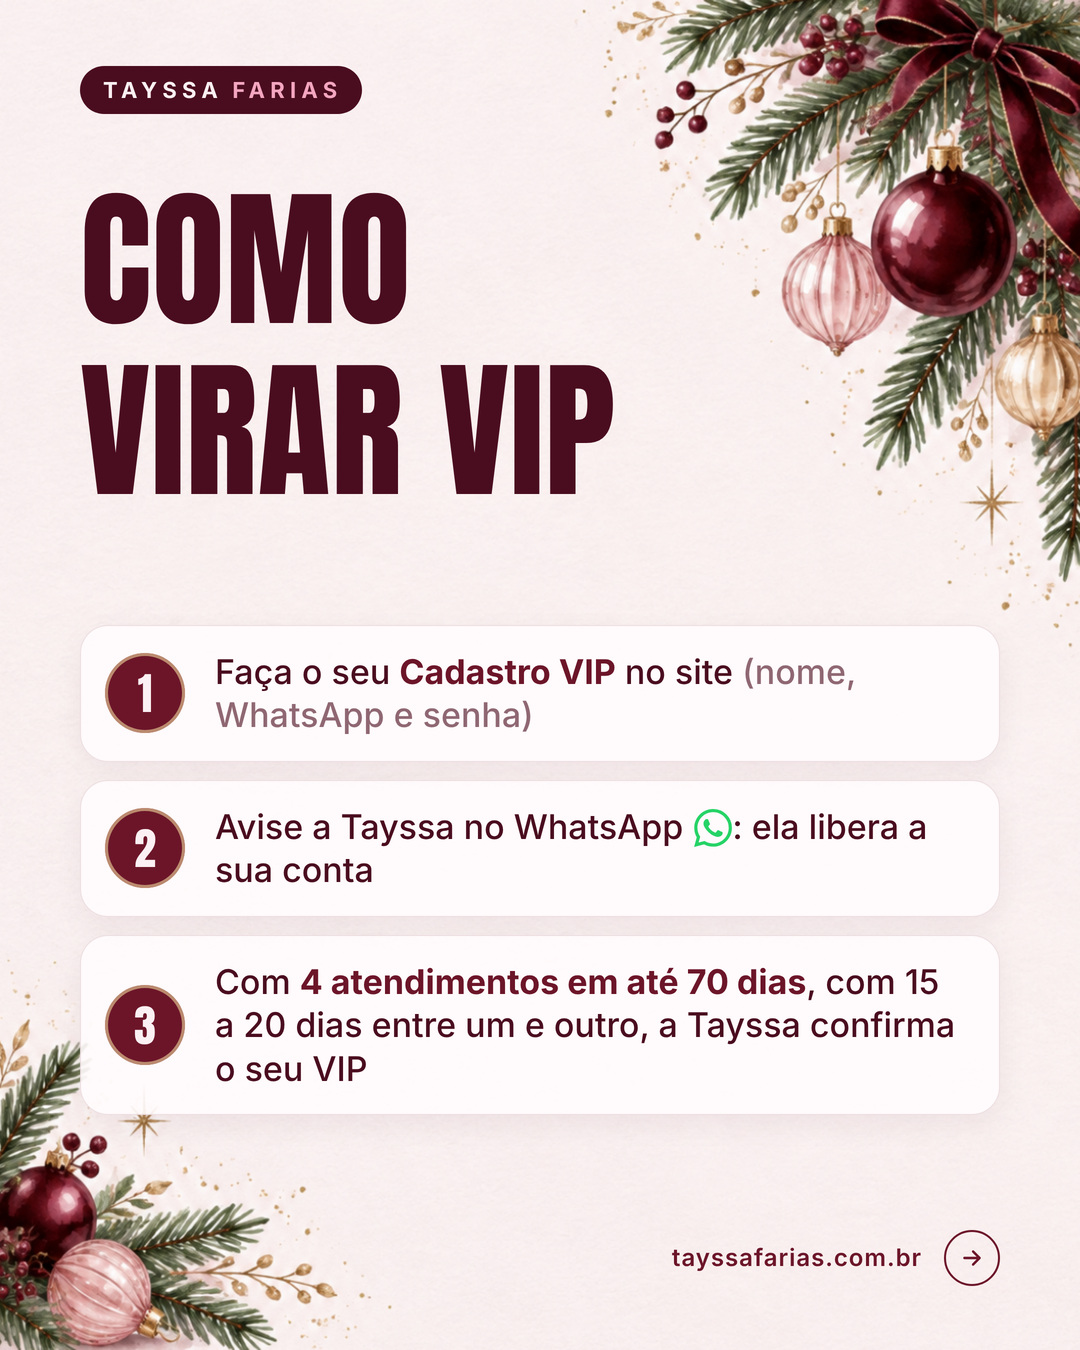
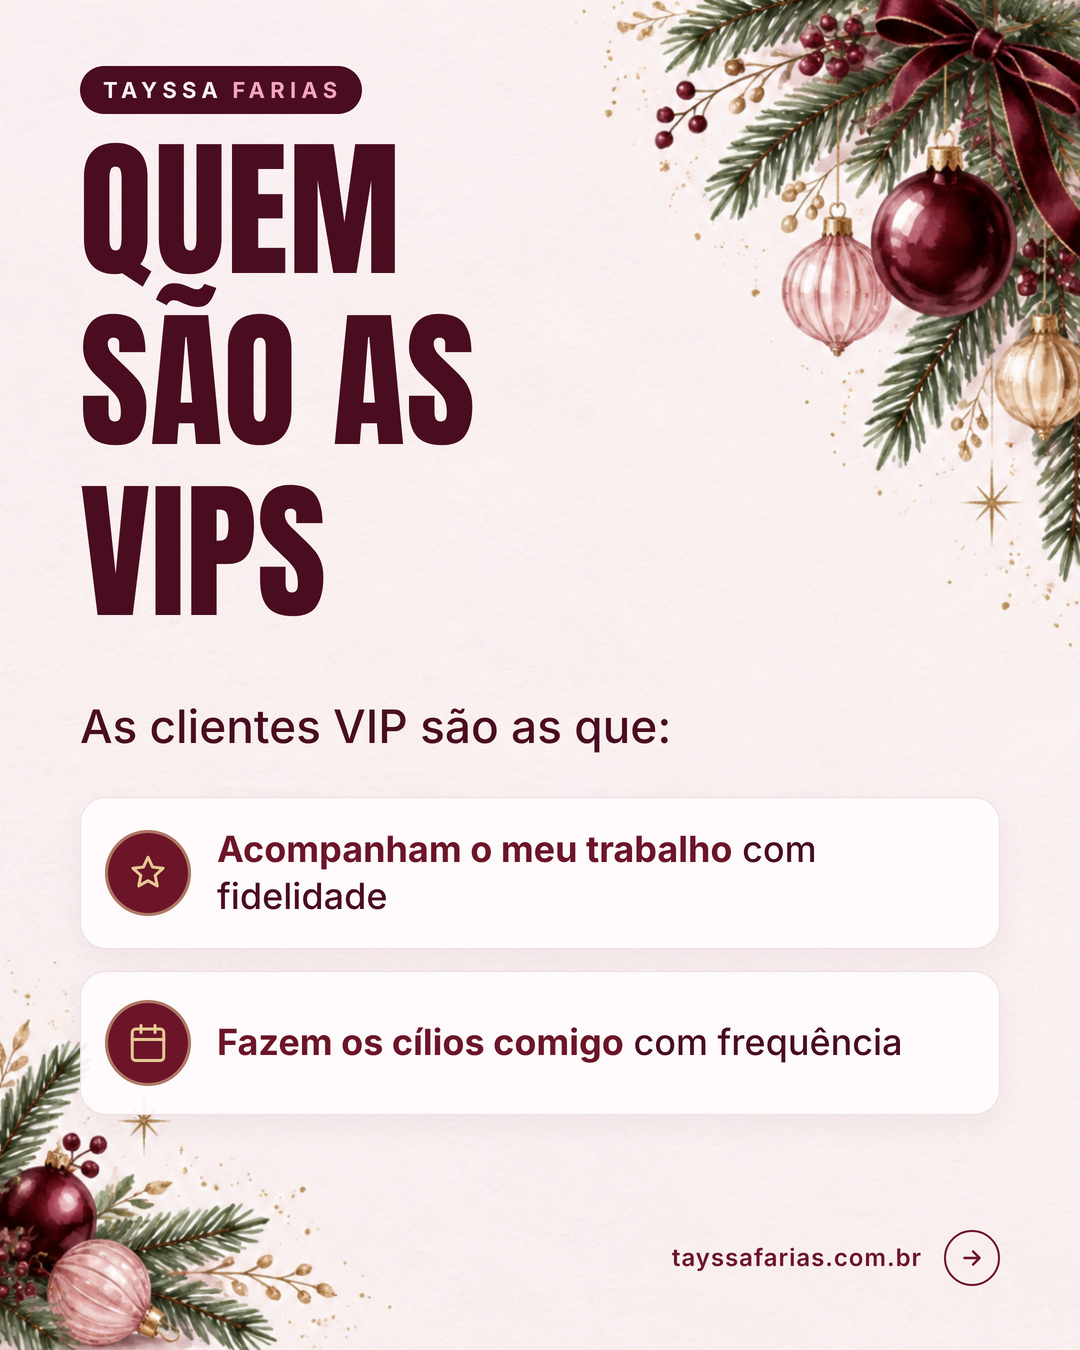
Tayssa: carrossel do site com a agenda de dezembro e quem são as VIPs
Lâmina 7 clara com o texto da Tayssa (primeiro só VIP, dia 14 de novembro
para todas); lâmina 8 troca Como virar VIP por Quem são as VIPs; legenda
sem o Cadastro VIP.

Claude-Session: https://claude.ai/code/session_01C7Fqj9QNbeqjAG4x5LcgP7

Changed region(s): [[0.0611, 0.0933, 0.7944, 0.56], [0.0917, 0.7156, 0.8861, 0.8089], [0.0917, 0.5911, 0.8556, 0.6844]]

diff --git a/docs/tayssa/carrossel-natal/gerador/style.css b/docs/tayssa/carrossel-natal/gerador/style.css
@@ -279,3 +279,13 @@ main { justify-content: flex-start; padding: 0; }
 .ff-linha b { font-weight: 400; color: var(--rose); }
 .ff-titulo { top: 128px; }
 .ff-veu { background: linear-gradient(180deg, rgba(74,13,31,.93) 0, rgba(74,13,31,.85) 330px, rgba(74,13,31,.4) 470px, rgba(74,13,31,0) 620px); }
+/* 7 e 8 novas */
+.corpo strong { font-weight: 700; color: var(--bordo); }
+.cupom--data { margin-top: 44px; }
+.cupom--data .cupom__rotulo { font-size: 34px; }
+.cupom--data .cupom__valor { margin-top: 18px; font-size: 104px; color: var(--rose); line-height: .95; }
+.beneficios--vips { margin-top: 40px; gap: 22px; }
+.beneficios--vips li { padding: 28px 30px 28px 24px; }
+.beneficios--vips p { font-size: 36px; }
+.beneficios--vips .ic { width: 86px; height: 86px; }
+.beneficios--vips .ic svg { width: 42px; height: 42px; }

diff --git a/docs/tayssa/carrossel-natal/README.md b/docs/tayssa/carrossel-natal/README.md
@@ -20,4 +20,5 @@ Post do @1.tayssa anunciando o tayssafarias.com.br. 12 lâminas em 1080 x 1350 (
 ## Antes de postar
 
 - Os valores são os de 12/11/2026 (Mega Inglês R$ 200, Mega Brasileiro R$ 190 e Mega Fox R$ 230, todos 3h, conferidos com `vip.services`). Se a Tayssa mudar preço ou regra, editar `gerador/build.mjs` e gerar de novo.
-- A lâmina 7 diz que dezembro abre primeiro para as VIPs: hoje `settings.booking.prioridade_vip` está ligada a partir de 01/12 e sem data para abrir a todas. Se ela marcar a data antes do post, a lâmina continua certa ("abre em breve").
+- Lâmina 7 (12/11/2026, texto da Tayssa): dezembro abre primeiro só para as clientes VIP e, no dia 14 de novembro, para todas. No site, `settings.booking.prioridade_vip.abre_em` precisa dessa data para bater com o post.
+- Lâmina 8 (12/11/2026): "Como virar VIP" saiu a pedido da Tayssa; no lugar, "Quem são as VIPs" (acompanham o trabalho dela com fidelidade e fazem os cílios com ela com frequência). A legenda não chama mais para o Cadastro VIP.
